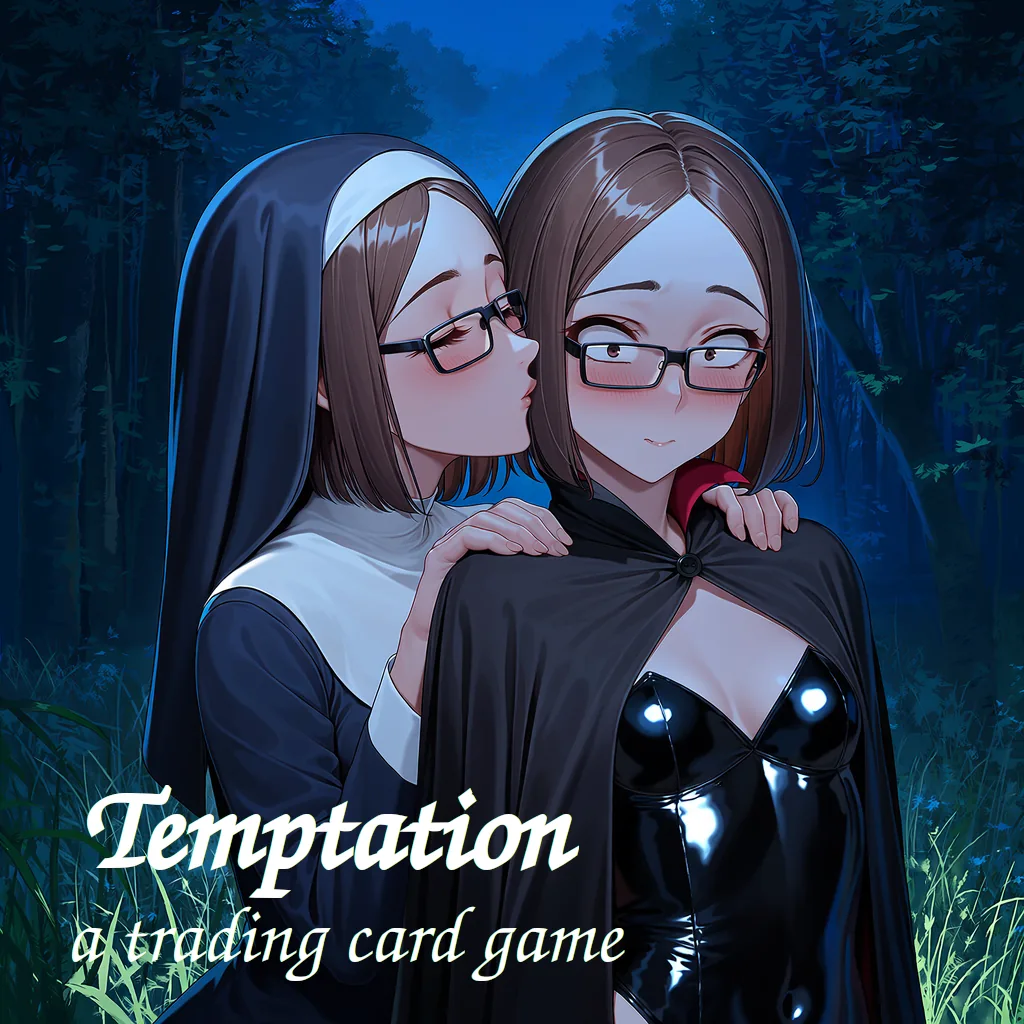
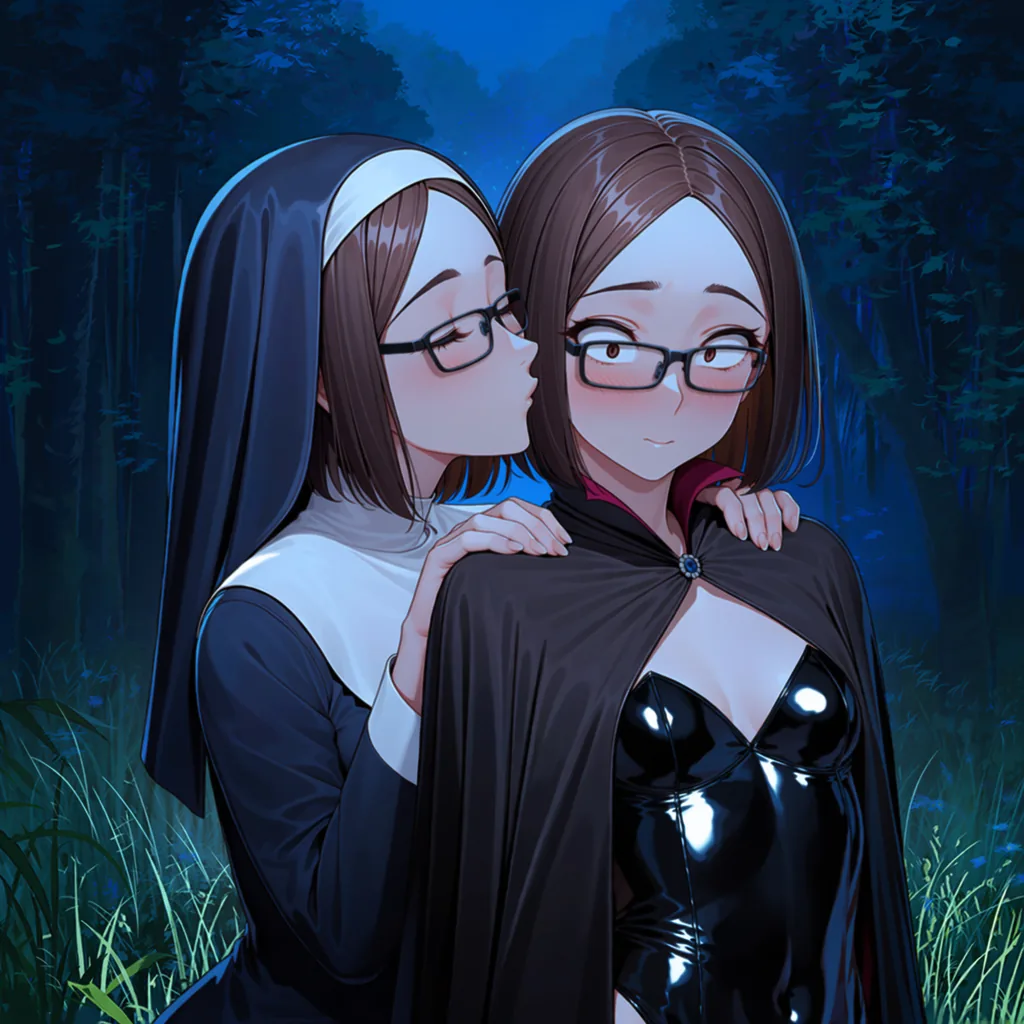
New cover art; blue Surrender button on the Court side
- images/cover.png replaced by the user (2944 px, title no longer
  painted in); public/cover.webp regenerated with
  tools/compress_images.py (portraits re-encode identically); cover
  snapshot baseline refreshed for the intended change.
- When playing Court, the Surrender button is dark blue (Church keeps
  the dark red).
- QUEUE.md: strings and constants refactors, cover and surrender items
  done; includes the user's new future features.

Claude-Session: https://claude.ai/code/session_01SQT1c3wsoGjF4ZNT2zWP3Q

diff --git a/src/ui/style.css b/src/ui/style.css
@@ -336,3 +336,4 @@ html.font-dyslexic, html.font-dyslexic * { font-family: "OpenDyslexic", sans-ser
 html.font-dyslexic .sidebar h1 { font-size: 20px; }
 html.font-dyslexic .sidebar .status { font-size: 13px; }
 html.font-dyslexic .sidebar .muted { font-size: 11px; }
+.match.court button.danger { background: #111a2e; border-color: #28549e; }

diff --git a/QUEUE.md b/QUEUE.md
@@ -6,8 +6,6 @@ Requests and ideas, in rough priority order. Anyone can add an item at any time;
 
 Priority may not match the chronological order. Pick them up in order of effort (small stuff first) and importance (bugs first).
 
-- [ ] Collect string consts (including menus etc.) into a separate folder. Reference them in code rather than keeping them as magic string. This will matter is something is renamed, if we add localications, etc.
-- [ ] Collect game constants (such as deck size) into another separate file.
 - [ ] Need to flesh out terminology. Rules separate Discard pile and Married couples, in the interface they're a special part of Discard. Needs discussion.
 
 ## Large features
@@ -42,8 +40,14 @@ Need discussion before pickup, and require significant work. Here for reference.
 - User accounts
 - Card drop after each won game (at random, with different cards having different drop frequency)
 - Card trading between users
+- Desktop version
+- Sidekick card type (for familiars, summons, items that can move by themselves, token guys, etc)
 
 ## Done
+- [x] Court-side Surrender button is blue.
+- [x] New cover converted to public/cover.webp (88 KB); cover snapshot baseline refreshed.
+- [x] Interface text collected in src/strings/ (en.ts, functions for text with values).
+- [x] Game and interface constants collected in src/config/ (rules, match, ai, ui).
 - [x] Flipped cards say "reverse" (tag, inspect button, tooltip, screen-reader text, Cards page hints).
 - [x] F acts on whichever card was touched last: the one the mouse entered, or the one focus moved to (focus restored after a redraw does not count).
 - [x] Discard pile (bottom right) with Sent Home and Wedding Registry tabs; both players' discards are visible.
